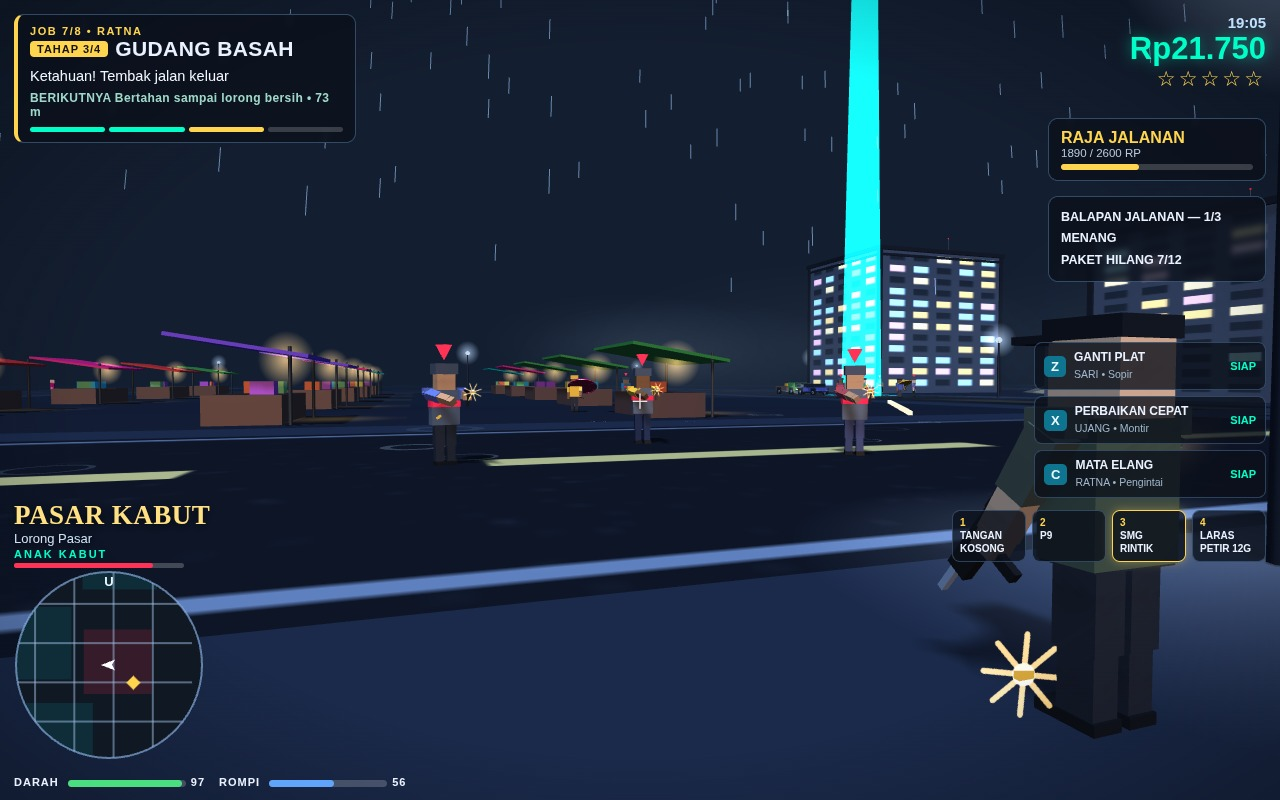
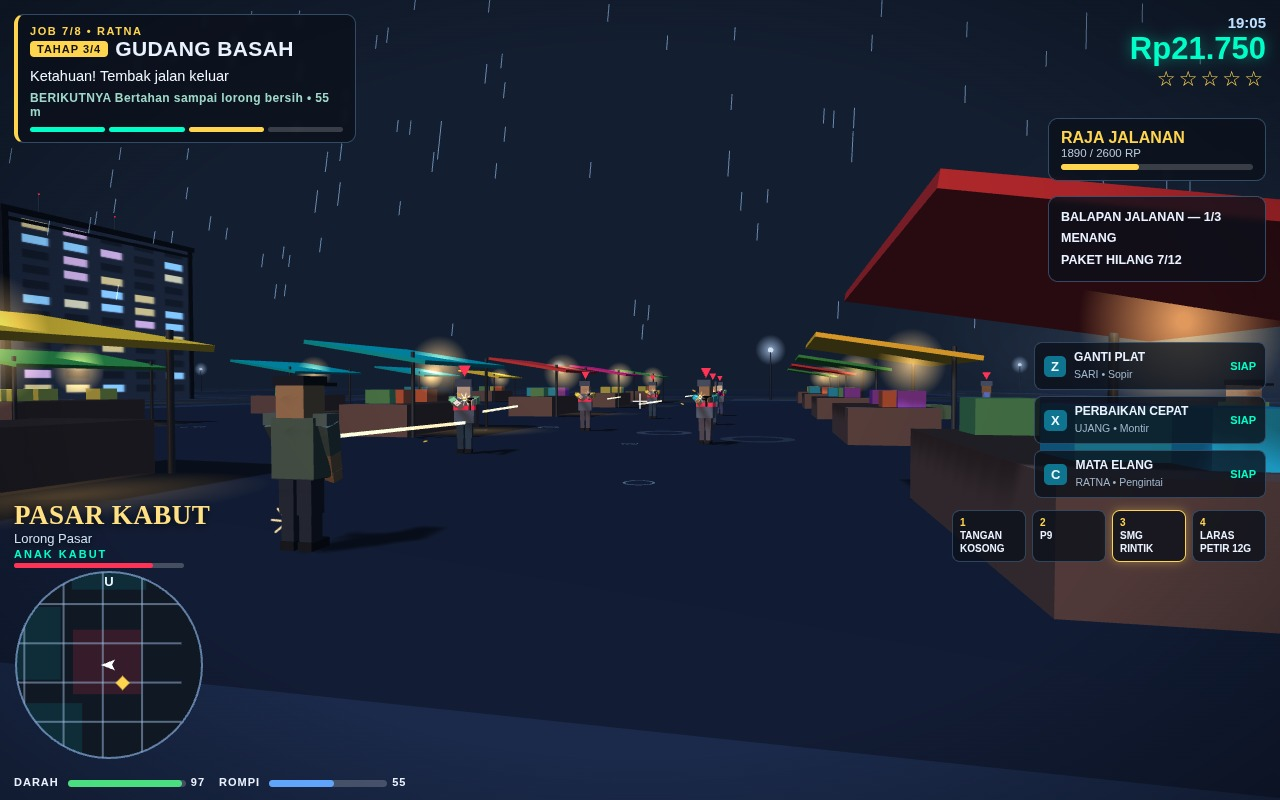
rev9: restage the duel inside the Pasar Kabut aisle — Damar whole at the aisle mouth, six Anak Kabut down the lane, two-way streaks; 2-duel.jpg re-captured

Changed region(s): [[0.0, 0.0, 1.0, 0.9062], [0.0, 0.7188, 0.125, 0.9375], [0.9062, 0.0, 1.0, 0.0625]]

diff --git a/game/src/shots.js b/game/src/shots.js
@@ -447,17 +447,22 @@ export function installStaging(api) {
       }
     },
 
-    // DUEL — a Pasar Kabut aisle gunfight. Hero west aiming east, three
-    // Anak Kabut down the lane with staggered first shots, so the frame
-    // can hold travelling streaks in both directions at once.
+    // DUEL — a Pasar Kabut aisle gunfight (rev9 restage). The old frame
+    // stood WEST of the market on the empty apron: Damar clipped at the
+    // frame edge, three gunmen small against bare asphalt. Now the duel
+    // plays INSIDE the market's middle aisle (stall rows at z 44 and
+    // z 61): Damar at the aisle mouth aiming east, SIX Anak Kabut spread
+    // down the lane inside their 40 m firing range, staggered first
+    // shots so the frame can hold travelling streaks in both directions
+    // at once, stall awnings and goods flanking both sides.
     duel() {
       api.seedStats(SHOWCASE);
       api.startJobAt(6); api.setStage(2); // GUDANG BASAH: "Ketahuan! Tembak jalan keluar"
       S.weaponIdx = 2; giveGun(player.mesh, 'smg');
-      player.mesh.position.set(179, 0, 53);
+      player.mesh.position.set(205, 0, 52.5);
       player.mesh.rotation.y = Math.PI / 2;
       player.aimBlend = 1;
-      const firingLine = [[190, 50.5], [193, 55.5], [189, 59]];
+      const firingLine = [[215, 49.5], [219, 55.5], [226, 50], [231, 55], [236, 51], [240, 54.5]];
       firingLine.forEach(([gx, gz], i) => {
         const gunman = api.pedEntity('gang', { gang: true, marker: true }, gx, gz, -Math.PI / 2);
         giveGun(gunman.mesh, pick(['smg', 'p9', 'smg']));
@@ -465,9 +470,13 @@ export function installStaging(api) {
         gunman.fireCd = 0.3 + i * 0.22; // staggered: return fire overlaps the hero's burst
         api.gangs.push(gunman);
       });
-      // Tight and low: hero large at the left, the firing line big enough
-      // that both directions of streak read at thumbnail size.
-      api.setCam([173.8, 1.7, 48.6], [192, 1.25, 54.8]);
+      // Over Damar's right shoulder from the aisle's south side, low:
+      // looking east, screen-right runs along +z, so the camera sits at
+      // the higher z to hold the hero large and whole at the LEFT while
+      // the aisle runs diagonally east past him; the firing line stays
+      // big enough that both directions of streak read at dossier size,
+      // and the stage beam at the gudang falls outside the frame.
+      api.setCam([198.6, 1.8, 57.6], [228, 1.1, 51.6]);
     },
 
     // PASAR — the wet market at full density: hero mid-aisle, a crowd of
